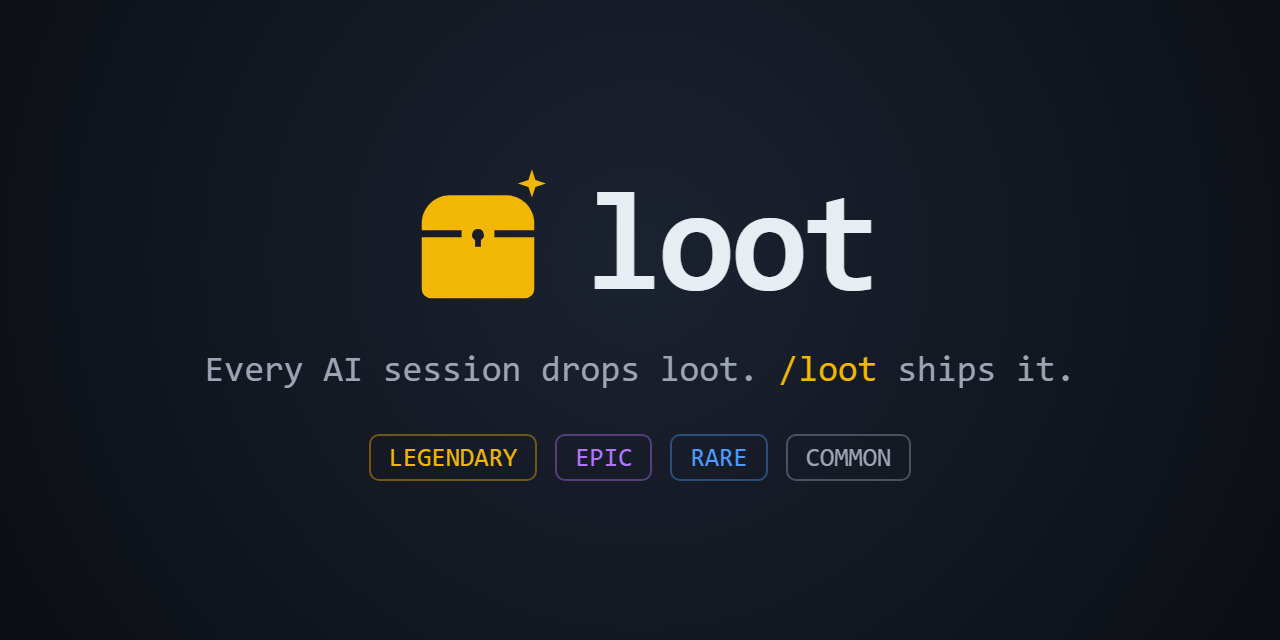
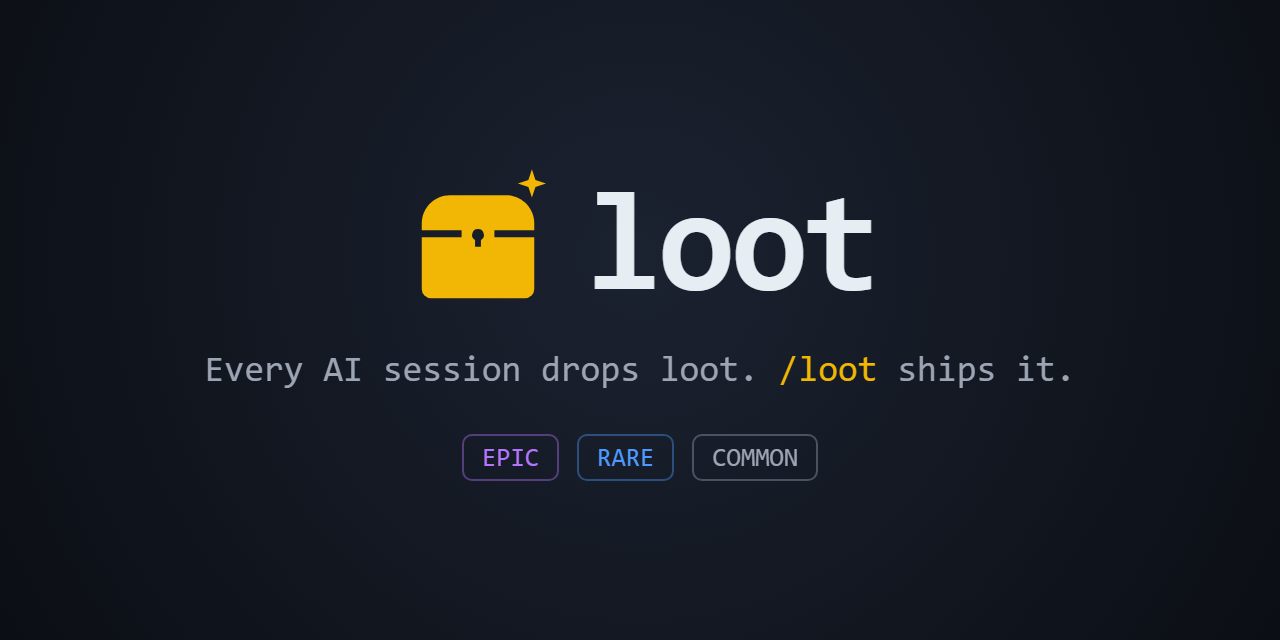
Re-rate loot's own drops: all Common
A real existence search found 7 similar tools; README links them. Demo and social card now show the filter saying no.

Changed region(s): [[0.2812, 0.6562, 0.7188, 0.75]]

diff --git a/demo/src/Loot.tsx b/demo/src/Loot.tsx
@@ -2,17 +2,17 @@ import type { CSSProperties, ReactNode } from 'react';
 import { AbsoluteFill, interpolate, spring, useCurrentFrame, useVideoConfig } from 'remotion';
 
 export const GOLD = '#F2B705';
-export const RARITY = { COMMON: '#9DA5B4', RARE: '#4C9AFF', EPIC: '#B474FF', LEGENDARY: GOLD } as const;
+export const RARITY = { COMMON: '#9DA5B4', RARE: '#4C9AFF', EPIC: '#B474FF' } as const;
 type Rarity = keyof typeof RARITY;
 
-// The drops loot found when it was run on the session that built it.
+// The drops loot found in the session that built it, re-rated under the evidence rules.
 const DROPS: { rarity: Rarity; name: string; what: string; forms: string }[] = [
-  { rarity: 'EPIC', name: 'loot-skill', what: 'ships what sessions find', forms: 'repo, post, demo' },
-  { rarity: 'RARE', name: 'scan.mjs', what: 'zero-dependency secret scanner', forms: 'bundled in repo' },
-  { rarity: 'RARE', name: 'naming a dev tool', what: 'hatch → sidequest → loot', forms: 'post section' },
-  { rarity: 'COMMON', name: 'preview server', what: '10-line static server', forms: 'LOOT.md' },
+  { rarity: 'COMMON', name: 'loot-skill', what: '6 similar tools, edge unmeasured', forms: 'LOOT.md' },
+  { rarity: 'COMMON', name: 'scan.mjs', what: 'gitleaks does far more', forms: 'LOOT.md' },
+  { rarity: 'COMMON', name: 'naming story', what: 'only interesting to us', forms: 'LOOT.md' },
+  { rarity: 'COMMON', name: 'preview server', what: 'throwaway', forms: 'LOOT.md' },
 ];
-const SHIPPED = ['repo   github.com/hamgarian/loot-skill', 'post   posts/loot.md', 'demo   assets/demo.gif'];
+const DONE = ['4 drops saved to LOOT.md', 'evidence cited for every rating'];
 
 const mono: CSSProperties = { fontFamily: 'Consolas, "JetBrains Mono", Menlo, monospace', fontSize: 20, lineHeight: 1.55 };
 
@@ -53,8 +53,8 @@ export const Loot = () => {
   const frame = useCurrentFrame();
   const { fps } = useVideoConfig();
   const ROWS = 92;
-  const ASK = ROWS + DROPS.length * 22 + 10;
-  const SHIP = ASK + 40;
+  const VERDICT = ROWS + DROPS.length * 22 + 10;
+  const SAVED = VERDICT + 40;
   const END = 360;
 
   const termOut = interpolate(frame, [END, END + 12], [1, 0], { extrapolateLeft: 'clamp', extrapolateRight: 'clamp' });
@@ -87,7 +87,7 @@ export const Loot = () => {
             <Typed text="/loot" at={10} frame={frame} />
           </div>
           <Line at={40} frame={frame}>
-            <span style={{ color: '#7d8590' }}>scanning session… checking what already exists…</span>
+            <span style={{ color: '#7d8590' }}>scanning session… searching for what already exists…</span>
           </Line>
           <Line at={70} frame={frame}>
             <b>LOOT: {DROPS.length} drops</b>
@@ -115,12 +115,11 @@ export const Loot = () => {
               </div>
             );
           })}
-          <div style={{ marginTop: 8, opacity: fadeIn(frame, ASK) }}>
-            Ship which? <span style={{ color: GOLD }}>&gt; </span>
-            <Typed text="1" at={ASK + 10} frame={frame} />
+          <div style={{ marginTop: 8, opacity: fadeIn(frame, VERDICT) }}>
+            Nothing above Common. <span style={{ color: GOLD }}>Nothing to ship.</span>
           </div>
-          {SHIPPED.map((s, i) => (
-            <Line key={s} at={SHIP + i * 16} frame={frame}>
+          {DONE.map((s, i) => (
+            <Line key={s} at={SAVED + i * 16} frame={frame}>
               <span style={{ color: '#3fb950' }}>✓ </span>
               {s}
             </Line>

diff --git a/README.md b/README.md
@@ -2,46 +2,56 @@
 <h1 align="center">loot</h1>
 <p align="center"><b>Every AI session drops loot. <code>/loot</code> finds it, polishes it, ships it.</b></p>
 
-<p align="center"><img src="assets/demo.gif" width="720" alt="loot scanning a session and listing three drops by rarity"></p>
+<p align="center"><img src="assets/demo.gif" width="720" alt="loot scanning a session, rating all four drops Common, and saving them to LOOT.md"></p>
 
 You spend an evening with Claude or Codex and find something good: a trick that
 makes a framework 4× faster, a pile of corrections that finally got Remotion to
 make After Effects-style edits, a tool that just works. Then you close the tab,
-and it dies in the chat log. No repo, no docs, no post. Worth zero.
+and it dies in the chat log.
 
 **loot** is an agent skill that stops that. Run it at the end of a session and it:
 
 1. **Scans** the whole session for anything worth keeping: the main build,
    side discoveries, techniques, and the feedback you taught the agent.
-2. **Rates** each drop honestly by rarity, after checking whether it already exists.
-3. **Forges** the ones you pick into finished work: a clean standalone repo
-   with README, logo and tests, an agent skill, a blog post, a gist, a demo video.
-4. **Checks** for secrets and private data, then shows you exactly what will go public.
-5. **Ships** it only after you say yes.
-
-The real table from the session that built this repo ([LOOT.md](LOOT.md)):
-
-```
-LOOT: 4 drops
-1. [EPIC] loot-skill: an agent skill that finds and ships the valuable parts of AI sessions
-   exists? no agent skill found doing scan → rate → publish → repo + skill + post + demo
-2. [RARE] scan.mjs: zero-dependency secret scanner that never prints the secret
-   exists? gitleaks does far more; this only wins on "no install" → bundled in the repo
-3. [RARE] naming a dev tool: hatch → afterchat → sidequest → loot → a section of the post
-4. [COMMON] scratch preview server for checking the logo → LOOT.md
-Ship which? (numbers, "all", or "none")
-```
+2. **Writes it all down** in `LOOT.md`, a running journal of what you figured out.
+   That's most of the value.
+3. **Rates** each drop on evidence, not enthusiasm: it searches for what
+   already exists, asks for proof, and has a fresh agent that never saw your
+   conversation do the judging. Most drops are Common, and that's the point.
+4. **Forges** the rare drop that earns it into finished work: a clean repo with
+   README, logo and tests, an agent skill, a blog post, a gist, a demo video.
+5. **Checks** for secrets and private data, then **ships** only after you say yes.
 
 ## Rarity
 
-| Rarity | Bar | What you get |
+| Rarity | Needs all of | What you get |
 |---|---|---|
-| **Common** | useful to you, not to strangers | a line in `LOOT.md`, so it isn't lost |
-| **Rare** | small, reusable, others hit this | gist or short post |
-| **Epic** | solves a common problem better than what exists | repo or skill, plus post |
-| **Legendary** | new or clearly better, with proof | repo or skill, post, demo video, launch drafts |
+| **Common** | anything below Rare | a line in `LOOT.md`, so it isn't lost |
+| **Rare** | a real search query; a search that found nothing equivalent, with links; proof it works | gist, short post, or a small repo or skill |
+| **Epic** | Rare, plus a measured edge over a named alternative, and it runs from a clean clone | repo or skill, post, demo, launch drafts |
 
-Most drops are Common. loot says so.
+"Not checked" or "no proof" means Common. Ties round down. Anything rated
+above Common shows its evidence, so you can disagree.
+
+### loot rates itself Common
+
+The first version rated itself Epic, which was flattering itself.
+[Feedback](posts/loot.md#the-filter-was-flattering-me) pointed that out, the
+rules above replaced the vibes, and here is the re-rated table from the
+session that built this repo ([LOOT.md](LOOT.md)):
+
+```
+LOOT: 4 drops
+1. [COMMON] loot-skill: an agent skill that finds and ships the valuable parts of AI sessions
+   search: 6 similar tools (see below); its differences are real but not measured
+2. [COMMON] scan.mjs: zero-dependency secret scanner → gitleaks does far more
+3. [COMMON] naming a dev tool: hatch → afterchat → sidequest → loot → only interesting to us
+4. [COMMON] scratch preview server for checking the logo → throwaway
+Nothing above Common. 4 drops saved to LOOT.md.
+```
+
+It's published anyway because it was built in the open. Under its own rules it
+would have stayed a line in `LOOT.md` until real use proves an edge.
 
 ## Install
 
@@ -83,7 +93,8 @@ loot asks for capabilities, not specific tools, and always has a fallback.
 | Logo / cover image | your agent's image generation or an image MCP | hand-written SVG |
 | Secret scan | [gitleaks](https://github.com/gitleaks/gitleaks), including git history | bundled `scan.mjs` |
 | Demo video | [Remotion](https://www.remotion.dev) | screenshots + GIF |
-| "Does this exist?" | web search | marked "not checked" |
+| "Does this exist?" | web search | marked "not checked", which caps it at Common |
+| Independent rating | a subagent that never sees your conversation | the strongest case for Common, written first |
 | Publish repo | `gh` CLI | the commands, printed for you |
 | Publish post | dev.to / Hashnode API (draft) with your existing token | a Markdown file |
 
@@ -112,8 +123,24 @@ skills/loot/
   scripts/scan.mjs      secret scanner (node scan.mjs <folder>)
 ```
 
-This repo is loot's first drop: it was built in one Claude Code session and then
-looted with itself. The write-up is in [`posts/`](posts/).
+This repo was built in one Claude Code session and then looted with itself.
+The write-up is in [`posts/`](posts/).
+
+## Similar tools
+
+Found by running loot's own existence check on itself:
+
+- [logex](https://github.com/iamtouchskyer/logex): turns Claude Code transcripts into blog-style articles.
+- [work-to-blog-publisher](https://github.com/greeun/work-to-blog-publisher): Claude Code skill that publishes session work to GitHub and WordPress.
+- [insight-capture](https://github.com/xmoonanx/insight-capture): Claude Code and Codex session insights into Jekyll posts.
+- [mentor](https://github.com/smixs/mentor): session-insights skill that reads your local Claude Code and Codex history.
+- [retro-skill](https://github.com/netresearch/retro-skill): finds friction in agent sessions and turns learnings into config.
+- [learning-loop-skill](https://github.com/melodykoh/learning-loop-skill): captures learnings before the session ends.
+- [SpecStory](https://github.com/specstoryai/getspecstory): saves AI IDE and terminal agent histories for reuse.
+
+loot's differences: a rating step built to say no, a secret-scan and approval
+gate before anything goes public, and one pass that can produce a repo, skill,
+post or demo. None of that is measured against these tools yet.
 
 ## Limits
 
@@ -121,7 +148,9 @@ looted with itself. The write-up is in [`posts/`](posts/).
   summarized, early discoveries can be missed; loot says so when it happens.
 - The bundled scanner is a safety net (known key formats, `.env` files,
   passwords in URLs), not a full audit. Install gitleaks for the real thing.
-- Ratings are the agent's judgment. Treat them as a second opinion.
+- Ratings are still an LLM's judgment. The evidence rules and the outside
+  rater reduce flattery; they don't remove it. Read the cited search results,
+  not the label.
 
 ## License
 

diff --git a/posts/loot.md b/posts/loot.md
@@ -6,6 +6,10 @@ canonical_url: https://github.com/hamgarian/loot-skill/blob/main/posts/loot.md
 
 ![loot scanning a session and listing its drops by rarity](https://raw.githubusercontent.com/hamgarian/loot-skill/main/assets/demo.gif)
 
+*Update: the first feedback showed the rating step was flattering me. It's
+been rebuilt around evidence, and loot now rates itself Common. See
+[The filter was flattering me](#the-filter-was-flattering-me).*
+
 You know the feeling. You're in a session with Claude or Codex, and somewhere
 along the way you find something actually good: a trick that makes a framework
 way faster, or a pile of corrections that finally gets the AI to make
@@ -22,8 +26,10 @@ than you could ever follow up on. And the follow-up is the boring part: cut the
 code out of your project, write a README, make a logo, write the post, record a
 demo. So it never happens.
 
-But something on GitHub with decent docs is worth more than something perfect
-in a chat log. A repo can get found, used, starred and linked. A chat log can't.
+Most of what you find doesn't need a repo. It needs to be written down
+somewhere better than a chat log. And the rare piece that does deserve a repo
+is worth far more on GitHub, where it can be found and used, than in your
+history.
 
 ## What it does
 
@@ -33,15 +39,14 @@ That last one is underrated. If you spent an hour correcting Claude until its
 Remotion edits looked right, those corrections *are* a skill. loot turns them
 into a `SKILL.md` someone else can install.
 
-Each drop gets a rarity, after loot checks whether it already exists:
+Everything goes into `LOOT.md`, a running journal of what you figured out.
+Then each drop gets a rarity, and the bar is evidence:
 
-- **Common**: useful to you, not to strangers. It goes in `LOOT.md` so it isn't lost.
-- **Rare**: small and reusable. Gist or short post.
-- **Epic**: solves a common problem better than what's out there. Repo or skill, plus post.
-- **Legendary**: new, with proof. Repo, post, demo video, launch drafts.
-
-The rarity labels are a bit of a joke, but they do a real job: they force an
-honest verdict. Most drops are Common, and loot says so.
+- **Common**: everything that doesn't clear the bar below. A line in `LOOT.md`.
+- **Rare**: a real search query, a search that found nothing equivalent (with
+  links), and proof it works. Gist, short post, or a small repo.
+- **Epic**: Rare, plus a measured edge over a named alternative. Repo or skill,
+  post, demo.
 
 You pick what to ship. loot then builds each one as a standalone thing: clean
 folder, README, logo, license, tests, name and tagline. Then it checks.
@@ -86,11 +91,43 @@ ships:
 
 ## I ran it on itself
 
-The session that built loot was the first thing it looted. It found four drops:
-the skill itself (Epic), the secret scanner (Rare, kept inside the repo since
-gitleaks already exists), this naming story (Rare, now a section of this post),
-and a throwaway preview server (Common). The demo at the top was rendered with
-Remotion in that same session.
+The session that built loot was the first thing it looted. It found four drops
+and rated them: the skill itself Epic, the secret scanner Rare, this naming
+story Rare, and a throwaway preview server Common.
+
+## The filter was flattering me
+
+The first real feedback took that table apart. Three of four drops above
+Common, in a system whose whole pitch is "most drops are Common." A naming
+brainstorm rated Rare. A regex key checker rated Rare. As the reviewer put
+it, the filter wasn't filtering, it was flattering.
+
+They were right about why, too. The agent rating your work is the one that
+just spent the evening helping you build it. It can't tell what's new to the
+world, and it leans toward telling you what you want to hear. Rarity colors
+make it worse: an "Epic" label makes you want to publish.
+
+So the rating step changed:
+
+- **Evidence instead of judgment.** Each tier is a checklist: the search query
+  a stranger would type, that search actually run with results cited, proof
+  it works, and for Epic a measured edge over a named alternative.
+- **Can't check it, can't rate it.** "Not checked" or "no proof" means Common.
+- **Someone else judges.** In Claude Code the rating goes to a subagent that
+  sees only the evidence, never the conversation, and has to argue for Common
+  first.
+- **Expect Common.** Ties round down. More than one drop above Common in a
+  session needs an explanation.
+
+Then I re-ran the existence check on loot itself, searching for what it
+*does* instead of whether its name was free. It found logex,
+work-to-blog-publisher, mentor, retro-skill and a few others doing parts of
+the same job. loot's differences are real, but nothing is measured. Under its
+own rules, **loot rates itself Common**. All four drops are Common now.
+
+It's already public, so it stays public, and the README links the similar
+tools. But that's the version of loot I'd actually trust: one that tells its
+own author no.
 
 ## Try it
 

diff --git a/LOOT.md b/LOOT.md
@@ -18,3 +18,26 @@ LOOT: 4 drops
 ```
 
 Shipped: #1, with #2 inside it and #3 in the post.
+
+## 2026-10-18: re-rated under the evidence rules
+
+The table above was the agent grading its own homework: 3 of 4 drops above
+Common, including a naming brainstorm. Feedback called it flattering, and it
+was. Re-rated with a real "does this exist?" search (for what loot does, not
+for its name):
+
+```
+LOOT: 4 drops
+1. [COMMON] loot-skill: an agent skill that finds and ships the valuable parts of AI sessions
+   query: "claude code session to blog post / repo / skill"
+   search: logex, work-to-blog-publisher, insight-capture, mentor, retro-skill,
+           learning-loop-skill, SpecStory (links in README)
+   proof: scanner tests pass; the skill itself has not been run in a fresh session
+   edge: rating filter, secret gate, several forms in one pass; not measured
+2. [COMMON] scan.mjs: gitleaks and trufflehog do far more
+3. [COMMON] naming a dev tool: color for the post, not useful to strangers
+4. [COMMON] scratch preview server: throwaway
+Nothing above Common.
+```
+
+Already public, so it stays public. Re-rate after real use.
